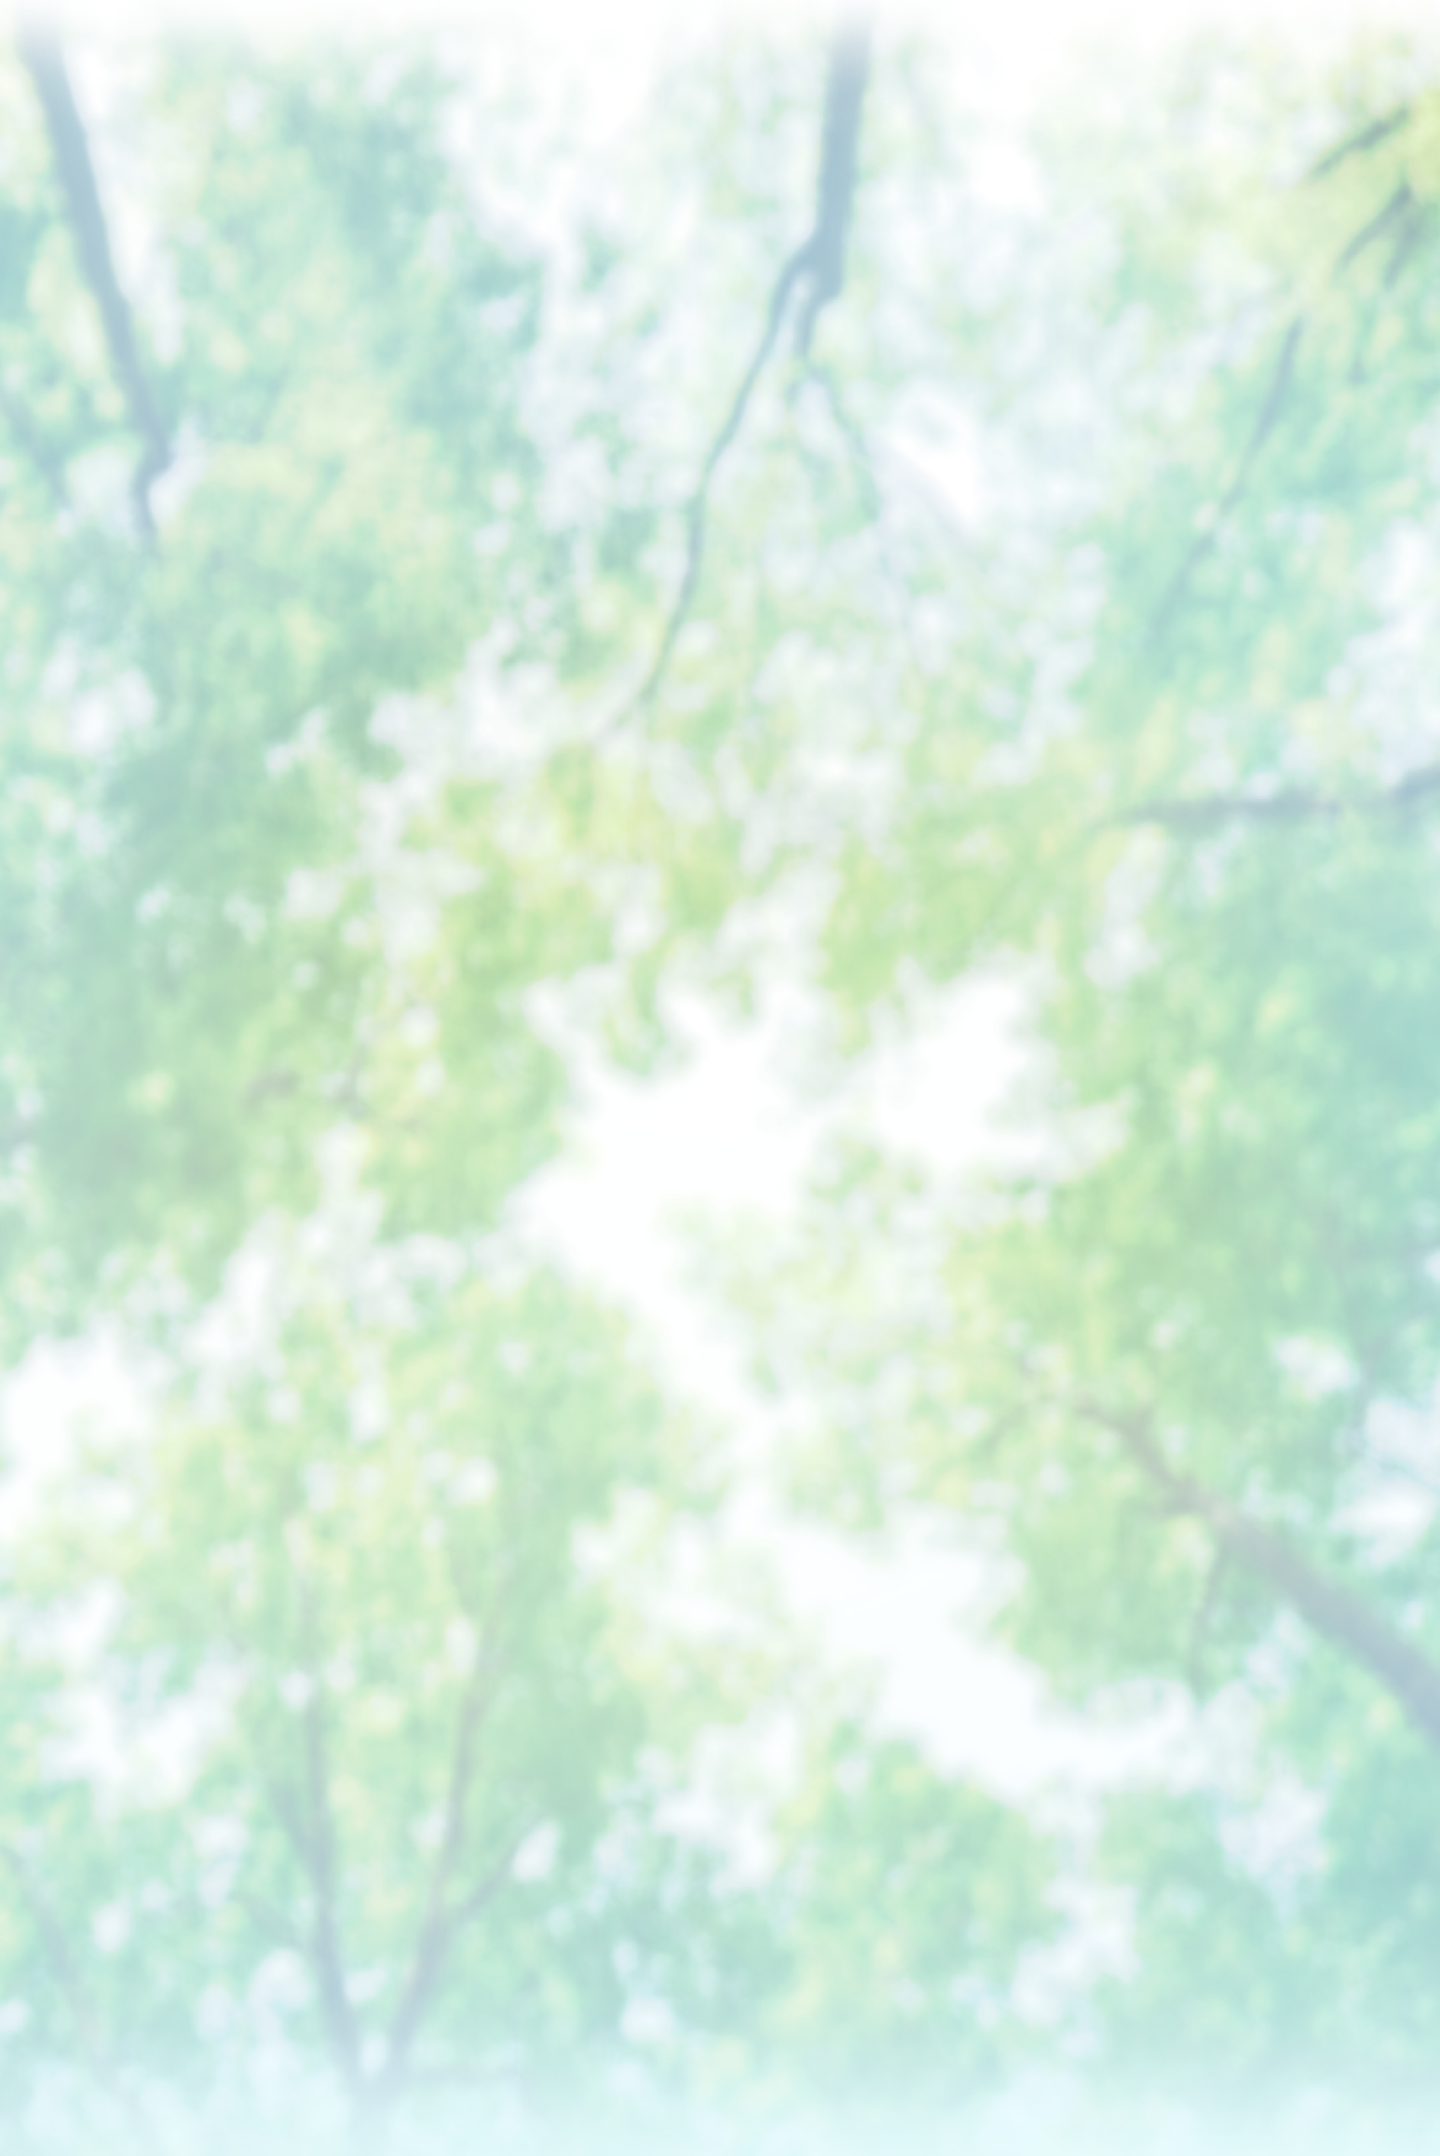
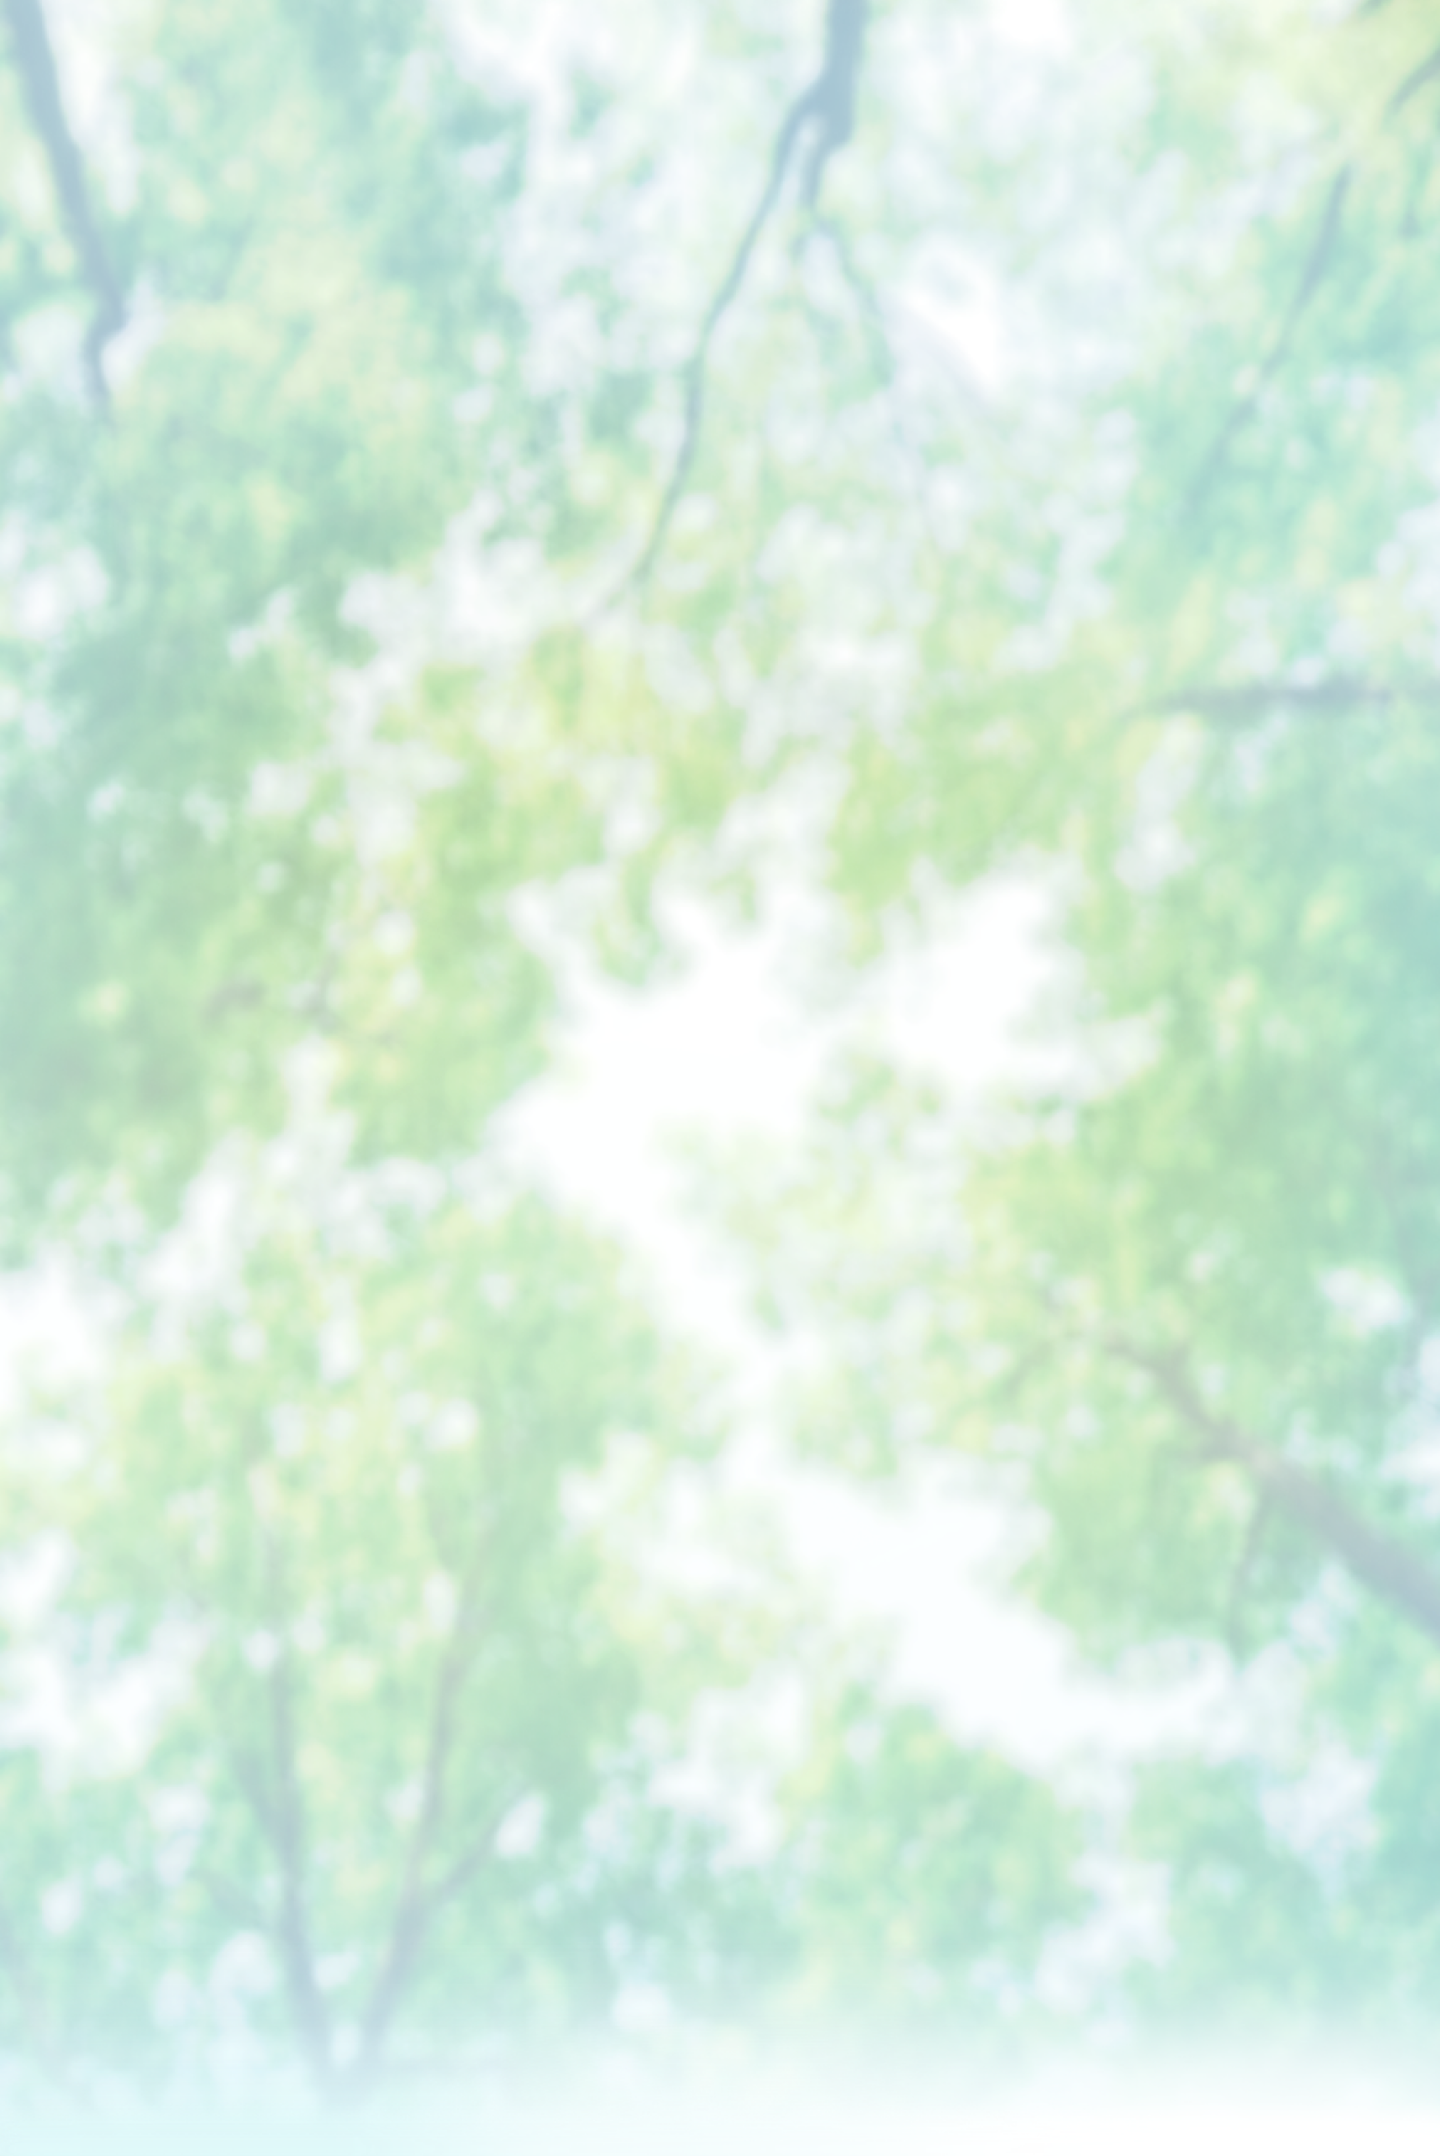
key-visualを配置

diff --git a/wordpress/wp-content/themes/atnif-figma-theme/style.css b/wordpress/wp-content/themes/atnif-figma-theme/style.css
@@ -145,8 +145,9 @@ select {
     min-height: 800px;
     padding: 160px 20px 80px;
     background-color: var(--atnif-paper);
-    background-position: center;
-    background-size: cover;
+    background-position: center top;
+    background-repeat: no-repeat;
+    background-size: 100% 100%;
 }
 
 .hero__media {
@@ -676,24 +677,28 @@ select {
 }
 
 @media (min-width: 1101px) {
+    .hero {
+        min-height: calc(100vw * 0.6666667);
+    }
+
     .section--story {
-        min-height: 2156px;
+        min-height: calc(100vw * 1.4972222);
     }
 
     .section--character {
-        min-height: 1110px;
+        min-height: calc(100vw * 0.7708333);
     }
 
     .section--gallery {
-        min-height: 866px;
+        min-height: calc(100vw * 0.6013889);
     }
 
     .section--special {
-        min-height: 866px;
+        min-height: calc(100vw * 0.6013889);
     }
 
     .section--game {
-        min-height: 850px;
+        min-height: calc(100vw * 0.5902778);
     }
 }
 

diff --git a/wordpress/wp-content/themes/atnif-figma-theme/index.php b/wordpress/wp-content/themes/atnif-figma-theme/index.php
@@ -3,7 +3,7 @@ get_header();
 ?>
 
 <main id="main" class="site-main">
-    <section class="hero" style="background-image: url('<?php echo esc_url(atnif_mod('hero_background')); ?>');" aria-label="<?php esc_attr_e('Main visual', 'atnif-figma'); ?>">
+    <section class="hero" style="background-image: url('<?php echo esc_url(atnif_asset_url('images/key-visual.png')); ?>');" aria-label="<?php esc_attr_e('Main visual', 'atnif-figma'); ?>">
         <div class="hero__media">
             <?php
             $hero_image = atnif_image_mod('hero_image', 'hero__image', get_bloginfo('name'));
